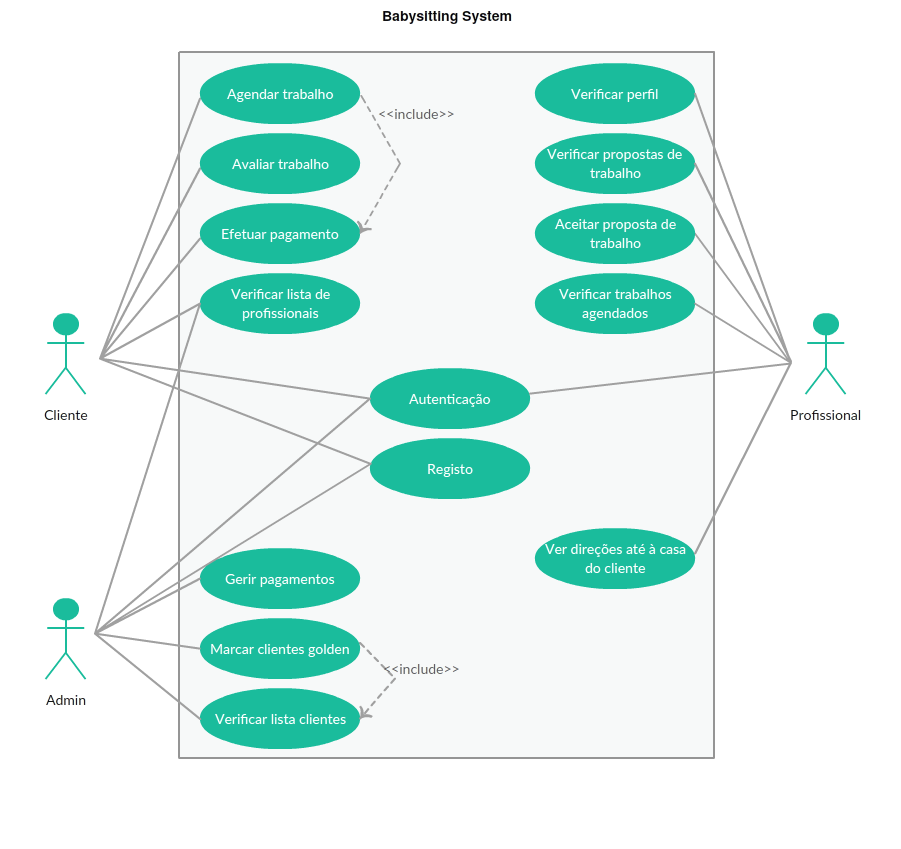
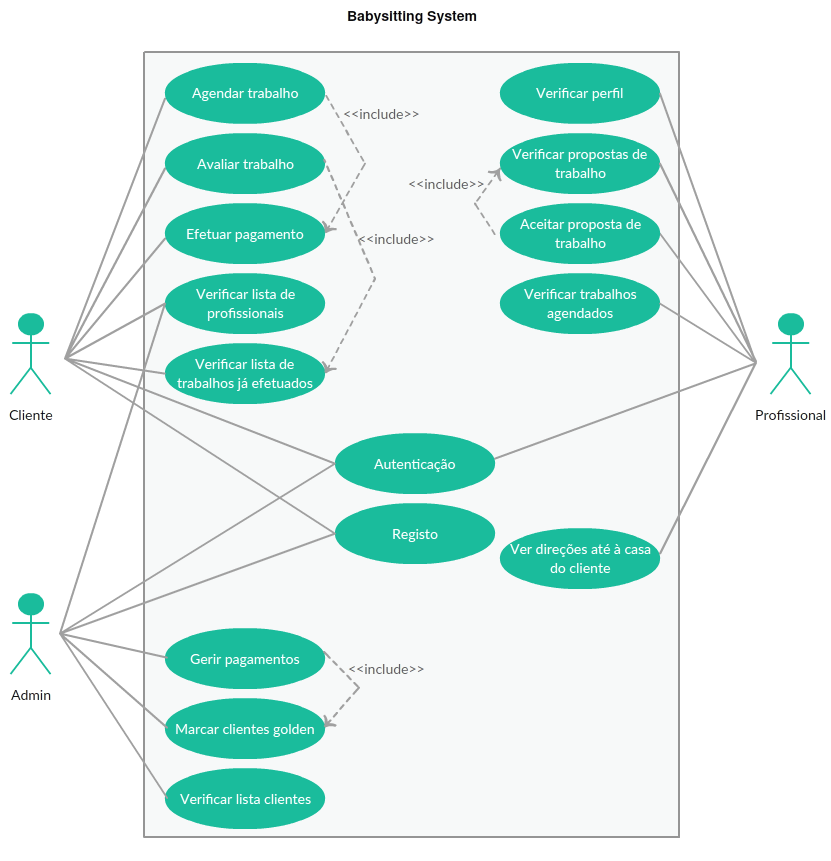
added more use cases & include arrows

diff --git a/II Fase/README.md b/II Fase/README.md
@@ -28,7 +28,7 @@
 * Deverá autorizar a inserção de observações por parte do utilizador, para especificar algumas exigências do mesmo no que toca ao serviço;
 * O sistema deverá permitir que seja mandada uma proposta de serviço devidamente especificada ao profissional, que, posteriormente, poderá aceitar ou recusar.
 
-### Avaliar trabalho
+### Avaliar trabalho (nota: se vai avaliar trabalho, tem q ter área de trabalhos passados)
 #### Definição de requisitos de utilizador
 * O utilizador deve poder avaliar um trabalho de um profissional.
 
@@ -41,7 +41,7 @@
 * O utilizador deve poder realizar o pagamento do serviço, antes da realização do mesmo (depois de confirmado o agendamento).
 
 #### Especificação de requisitos de sistema
-* O sistema deverá permitir que seja elaborado um método de pagamento, em dinheiro(?) ou online, que será sempre a favor do infantário (que acordará depois o pagamento com os respectivos profissionais). Este método é utilizado aquando do agendamento do trabalho.
+* O sistema deverá permitir que seja elaborado um método de pagamento (online), que será sempre a favor do infantário (que acordará depois o pagamento com os respectivos profissionais). Este método é utilizado aquando do agendamento do trabalho.
 
 
 ### Beneficiar de descontos - ser golden ou não
@@ -68,6 +68,7 @@
 ### Verificar propostas de trabalhos
 #### Definição de requisitos de utilizador
 * O utilizador deverá ser capaz de consultar a lista de propostas de novos trabalhos.
+
 #### Especificação de requisitos de sistema
 * O sistema deve fornecer uma lista de propostas de serviços, com a opção de recusa ou aceitamento.
 
